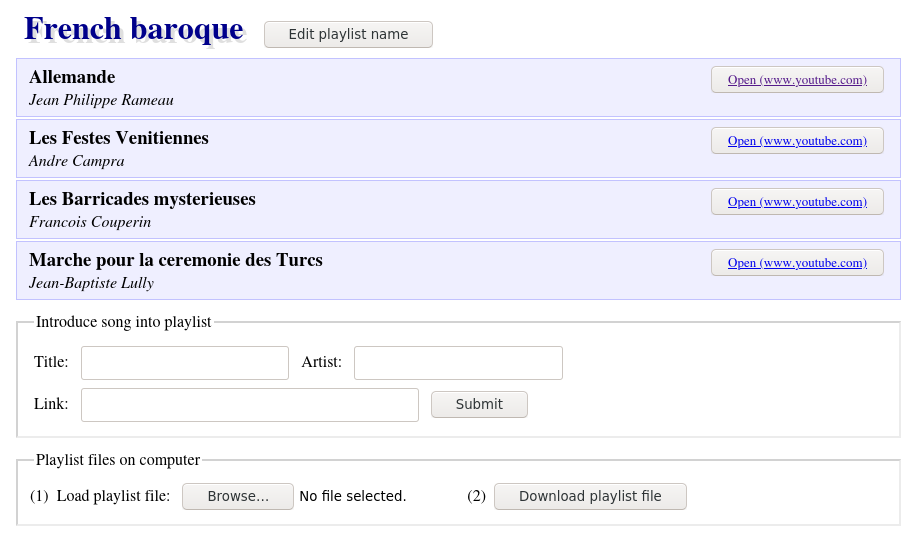
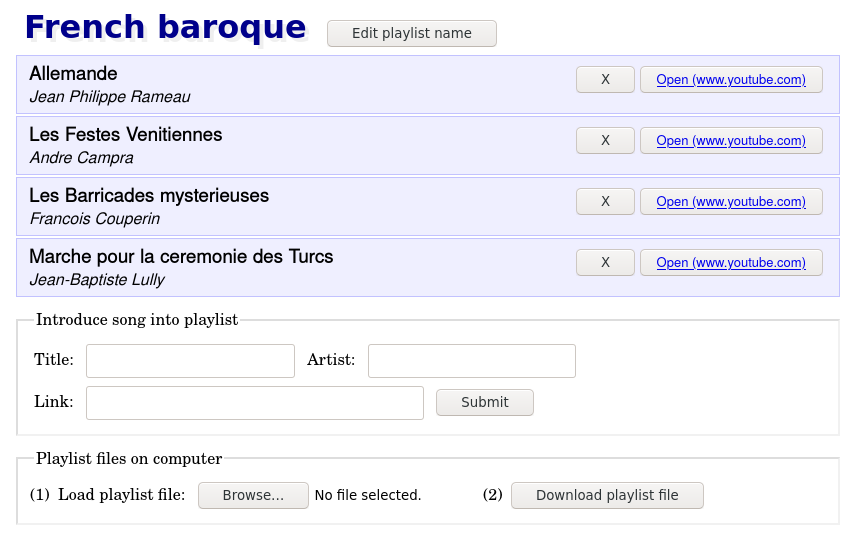
Forgot to update screenshot. Removed leftover test file.

diff --git a/Playlists/readme.md b/Playlists/readme.md
@@ -1,3 +1,3 @@
 
-![Screenshot of the app, organised as a vertical list of sections. First a playlist title with an edit button. Then a series of song boxes, each with song title and artist on the left and 'Open' button on the right. Then an 'introduce song into playlist' for inputting new songs. Then 'playlist files on computer', with buttons for loading a playlist file and downloading one.](screenshot.png)
+![Screenshot of the app, organised as a vertical list of sections. First a playlist title with an edit button. Then a series of song boxes, each with song title and artist on the left and 'Remove' and 'Open' button on the right. Then an 'introduce song into playlist' for inputting new songs. Then 'playlist files on computer', with buttons for loading a playlist file and downloading one.](screenshot.png)
 
